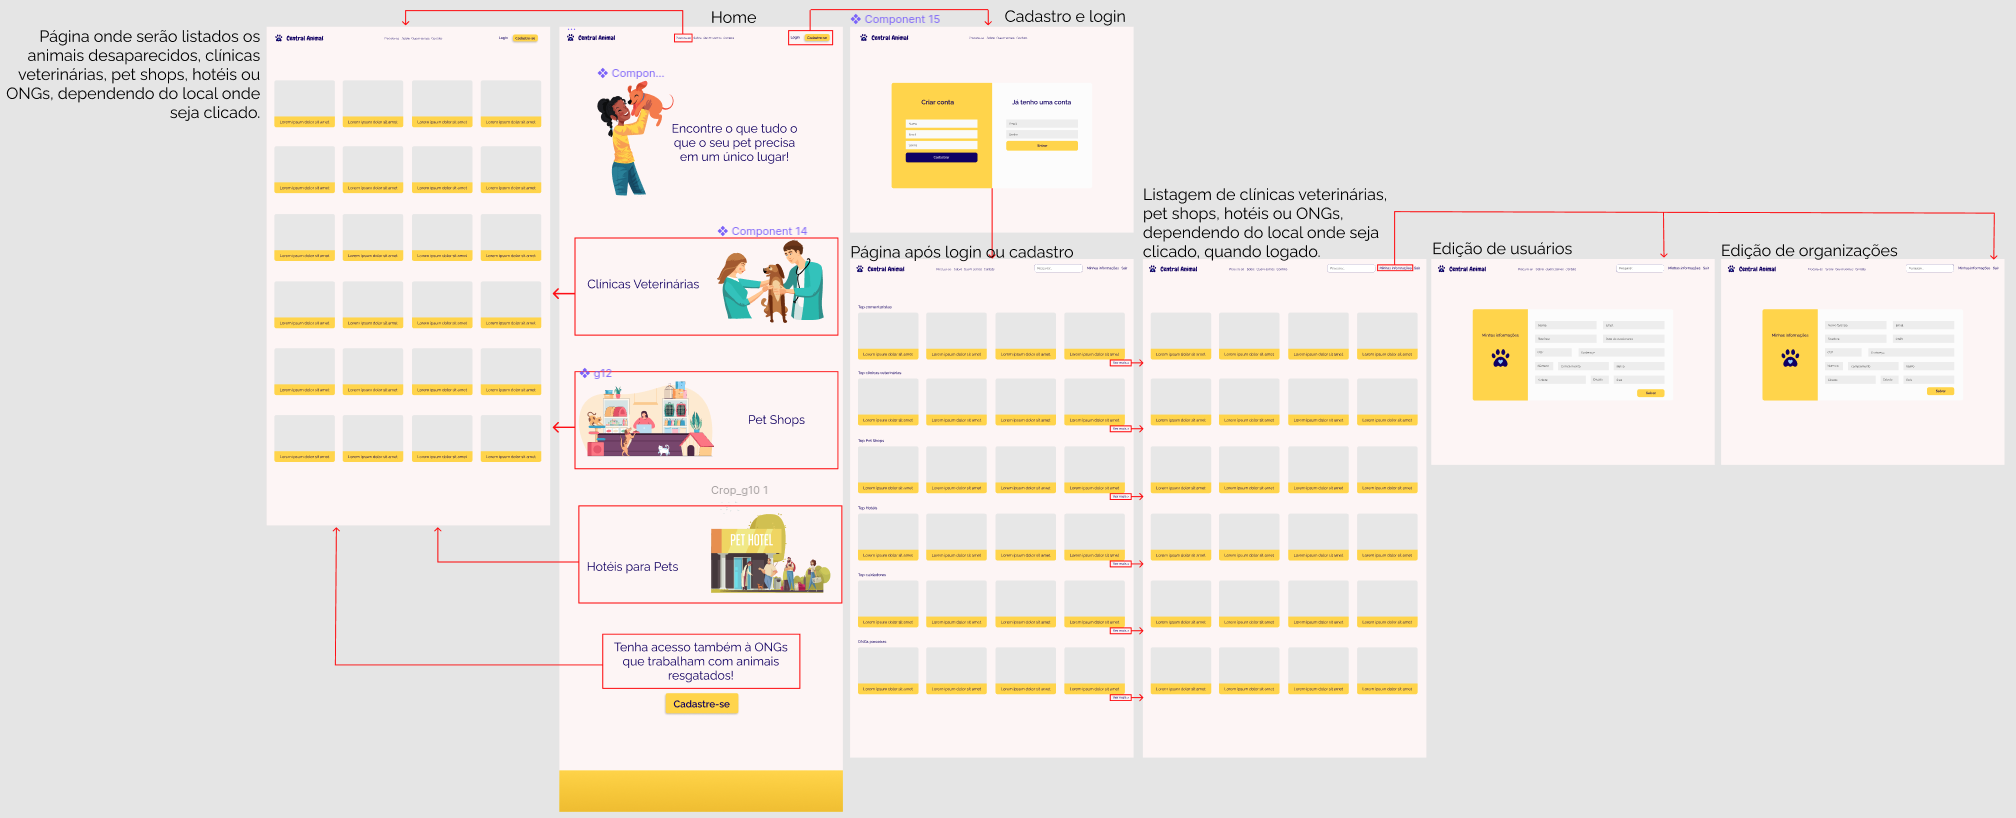
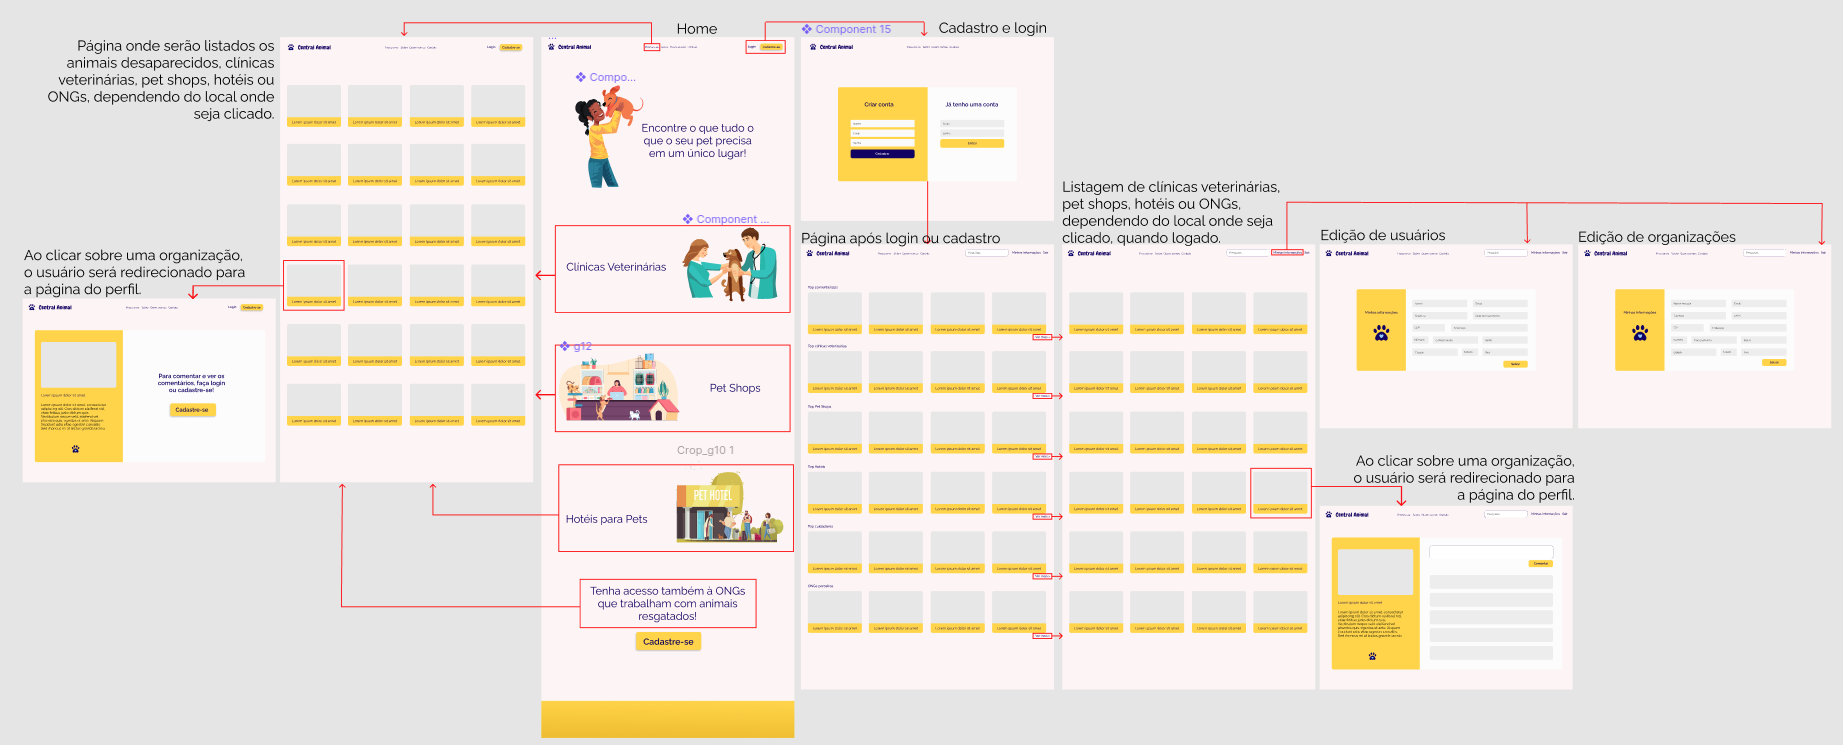
feat: adicionar novas páginas na doc

diff --git a/docs/04-Projeto de Interface.md b/docs/04-Projeto de Interface.md
@@ -17,6 +17,10 @@ A tela da home informa brevemento tudo o que o site fornece aos usuários, e con
 
 Tela de listagem das organizações, dependendo de onde o usuário clicou. Essa tela será exibida mesmo quando os usuários não estiverem logados.
 
+![Página individual sem login](img/individual-page-not-logged.png)
+
+Tela onde será informações individuis com mais detalhes, poderá ser acessada ao clicar em cima de uma organização. Quando não estiver logado, o usuário não poderá visualizar, e nem deixar comentários.
+
 ![Login e Cadastro](img/login.png)
 
 A tela de login e cadastro serão as mesmas para usuários e organizações, a diferenciação será feita com a opção "Quero oferecer meus serviços", ao selecionada essa opção, o formulário renderizará mais um campo onde será informado qual tipo de serviço oferecido.
@@ -28,6 +32,10 @@ Página na qual o usuário será redirecionado após o cadastro ou login.
 ![Listagem de serviços logado](img/service-list-when-logged.png)
 
 Tela de listagem das organizações, dependendo de onde o usuário clicou. Essa tela será exibida quando o usuário já está logado.
+
+![Página individual sem login](img/individual-page-logged.png)
+
+Tela onde será informações individuis com mais detalhes, poderá ser acessada ao clicar em cima de uma organização. Quando logado, o usuário poderá visualizar e deixar comentários.
 
 ![Editar informações de usuários](img/user-edit-info.png)
 
